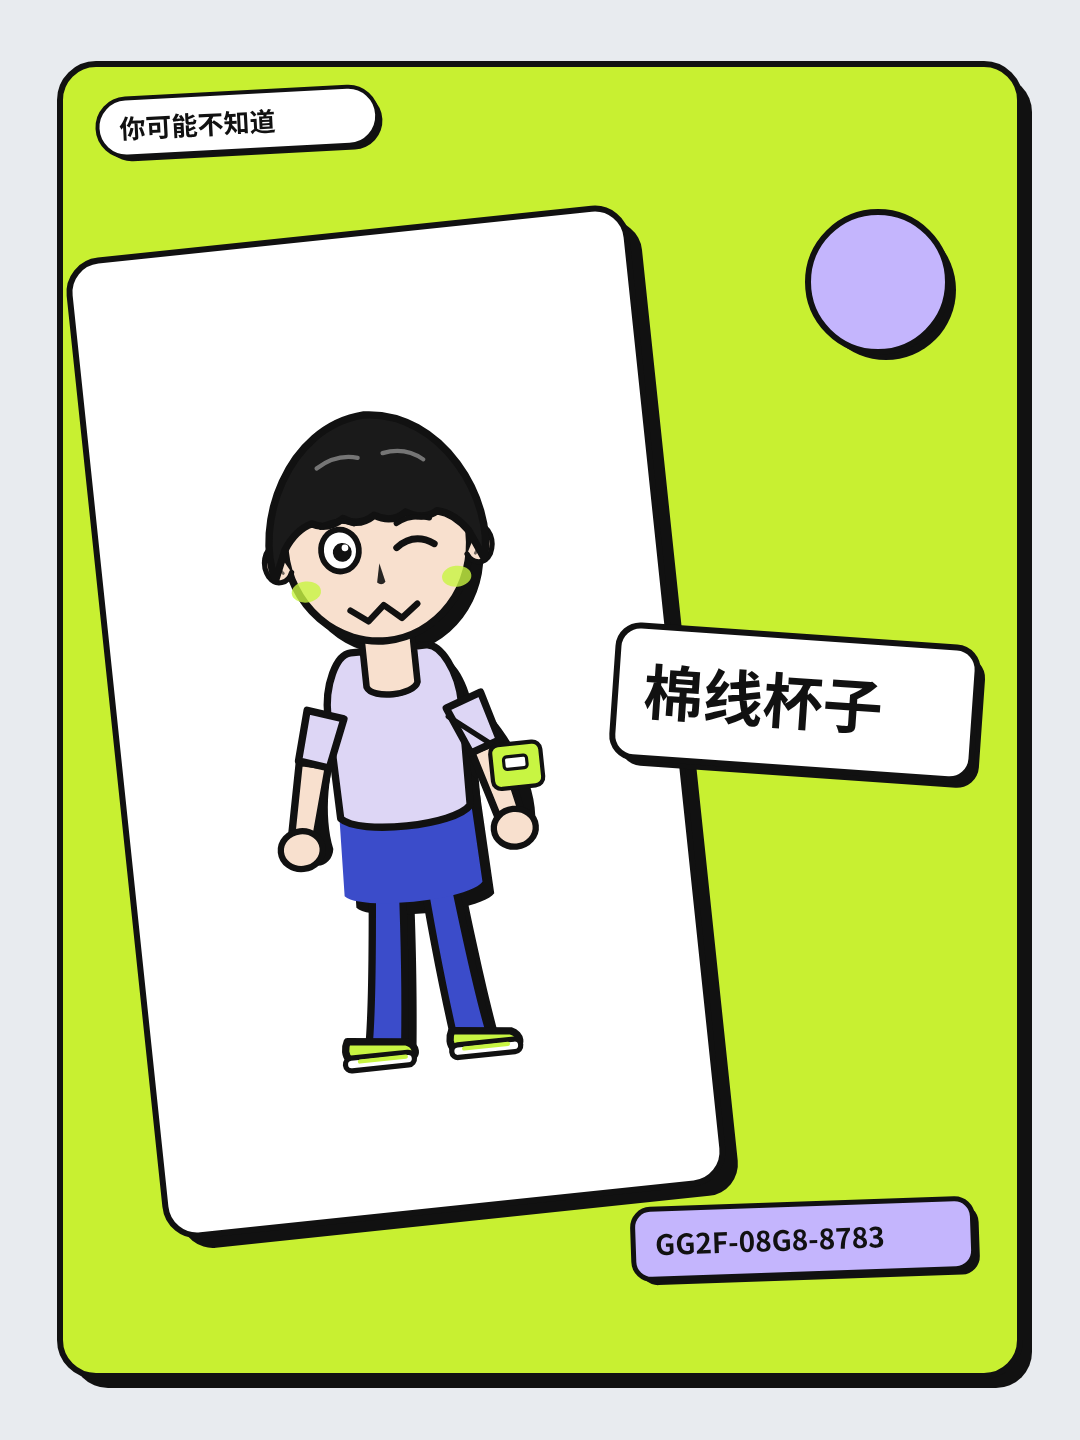
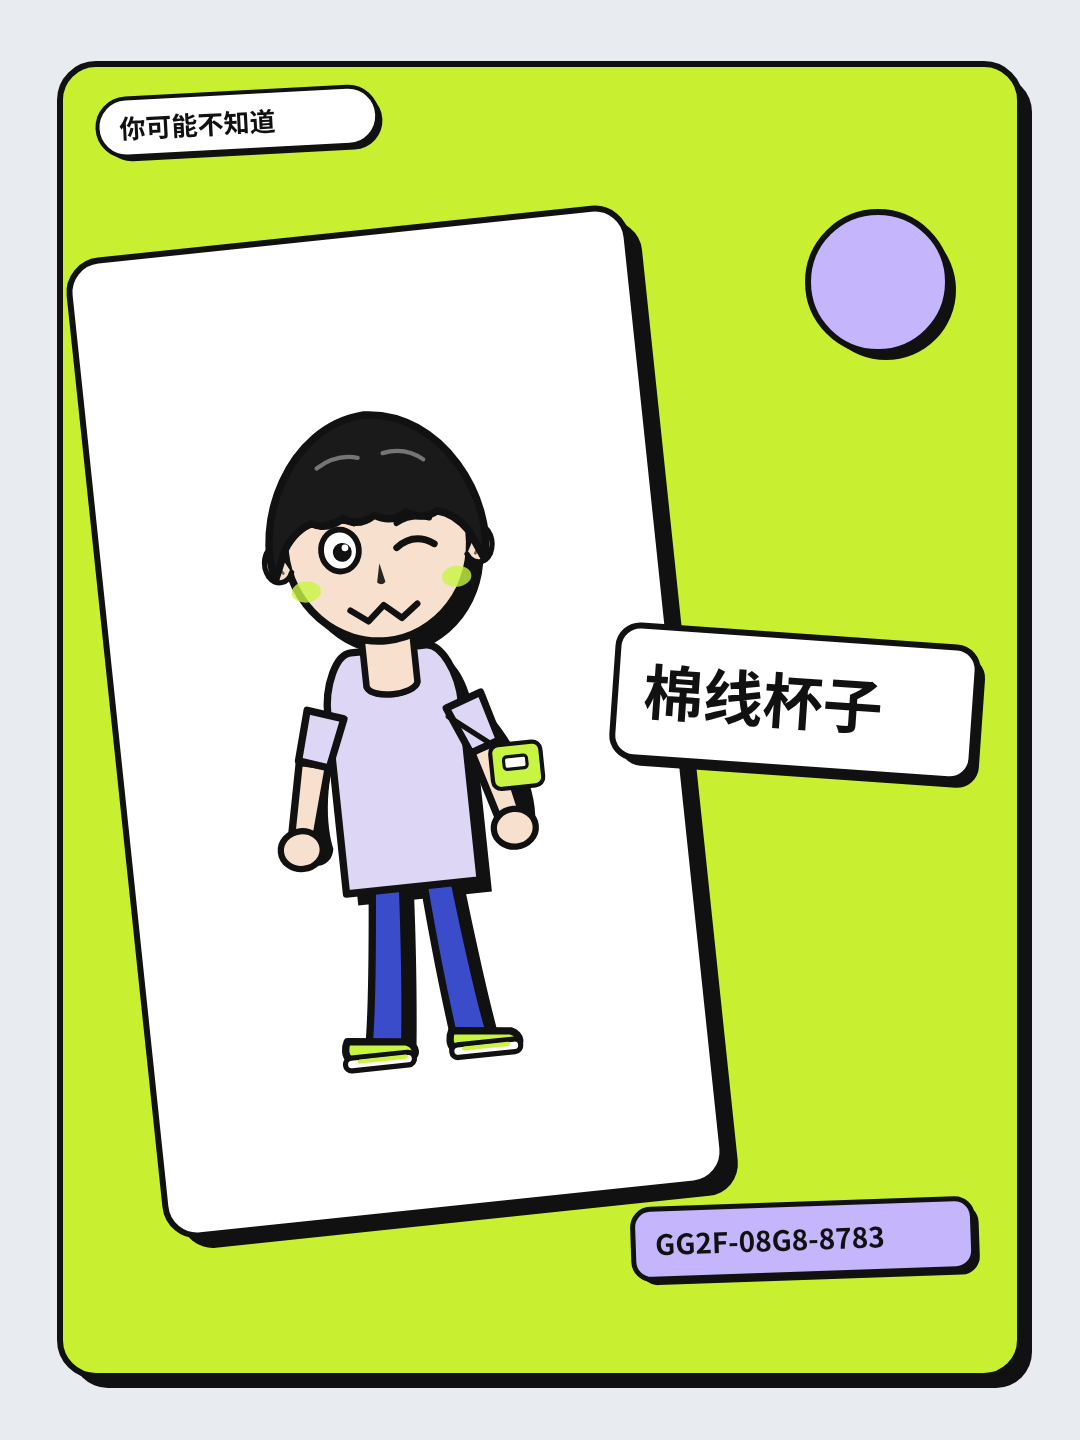
v1.7：下摆锁在同一高度，去掉裤腰色块
非连衣裙的衣身下摆都落在 HEM_Y，压过三种腿根。短的加长，过长的收到这条线。连衣裙仍是裙子。

Changed region(s): [[0.3056, 0.5312, 0.4583, 0.6562]]

diff --git a/js/figure-avatar.js b/js/figure-avatar.js
@@ -322,15 +322,20 @@
     long: 'swept', pony: 'fringe', afro: 'curly', shoulder: 'swept', spiky: 'spiky',
     buzz: 'buzz', swoop: 'swoop'
   };
-  /* 领口开口各款共用，衣身下摆和肩宽按款式分开。 */
+  /* 非连衣裙共用一条下摆。必须压过三种腿根（最低约 y514）至少 2px。 */
+  var HEM_Y = 518;
+  function hemLine(x0, x1) {
+    return ' L' + x1 + ' ' + HEM_Y + ' L' + x0 + ' ' + HEM_Y + ' Z';
+  }
+  /* 领口开口各款共用，肩宽仍按款式分开，下摆锁在 HEM_Y。 */
   var TORSO = {
-    tee: 'M136 348 C136 318 150 290 164 290 ' + 'L176 290 L176 324 C180 336 220 336 224 324 L224 290 L236 290' + ' C250 290 264 318 264 348 L262 446 C246 464 154 464 138 446 Z',
-    sweater: 'M108 334 C108 308 138 290 164 290 ' + 'L176 290 L176 324 C180 336 220 336 224 324 L224 290 L236 290' + ' C262 290 292 308 292 334 L296 512 C284 556 116 556 104 512 Z',
-    shirt: 'M124 348 C124 316 146 290 164 290 ' + 'L176 290 L176 324 C180 336 220 336 224 324 L224 290 L236 290' + ' C254 290 276 316 276 348 L270 468 C286 524 236 498 200 490 C164 498 114 524 130 468 Z',
-    hoodie: 'M102 352 C102 318 140 290 164 290 ' + 'L176 290 L176 324 C180 336 220 336 224 324 L224 290 L236 290' + ' C260 290 298 318 298 352 L304 548 L96 548 Z',
-    stripes: 'M98 362 C116 332 146 304 164 290 ' + 'L176 290 L176 324 C180 336 220 336 224 324 L224 290 L236 290' + ' C254 304 284 332 302 362 L296 508 C272 528 128 528 104 508 Z',
-    vest: 'M118 344 C118 314 144 290 164 290 ' + 'L176 290 L176 324 C180 336 220 336 224 324 L224 290 L236 290' + ' C256 290 282 314 282 344 L276 524 C258 542 142 542 124 524 Z',
-    overalls: 'M132 346 C132 316 148 290 164 290 ' + 'L176 290 L176 324 C180 336 220 336 224 324 L224 290 L236 290' + ' C252 290 268 316 268 346 L264 430 C248 446 152 446 136 430 Z',
+    tee: 'M136 348 C136 318 150 290 164 290 ' + 'L176 290 L176 324 C180 336 220 336 224 324 L224 290 L236 290' + ' C250 290 264 318 264 348' + hemLine(136, 264),
+    sweater: 'M108 334 C108 308 138 290 164 290 ' + 'L176 290 L176 324 C180 336 220 336 224 324 L224 290 L236 290' + ' C262 290 292 308 292 334' + hemLine(104, 296),
+    shirt: 'M124 348 C124 316 146 290 164 290 ' + 'L176 290 L176 324 C180 336 220 336 224 324 L224 290 L236 290' + ' C254 290 276 316 276 348' + hemLine(124, 276),
+    hoodie: 'M102 352 C102 318 140 290 164 290 ' + 'L176 290 L176 324 C180 336 220 336 224 324 L224 290 L236 290' + ' C260 290 298 318 298 352' + hemLine(96, 304),
+    stripes: 'M98 362 C116 332 146 304 164 290 ' + 'L176 290 L176 324 C180 336 220 336 224 324 L224 290 L236 290' + ' C254 304 284 332 302 362' + hemLine(104, 296),
+    vest: 'M118 344 C118 314 144 290 164 290 ' + 'L176 290 L176 324 C180 336 220 336 224 324 L224 290 L236 290' + ' C256 290 282 314 282 344' + hemLine(124, 276),
+    overalls: 'M132 346 C132 316 148 290 164 290 ' + 'L176 290 L176 324 C180 336 220 336 224 324 L224 290 L236 290' + ' C252 290 268 316 268 346' + hemLine(132, 268),
     dress: 'M134 346 C134 316 150 290 164 290 ' + 'L176 290 L176 324 C180 336 220 336 224 324 L224 290 L236 290' + ' C250 290 266 316 266 346 L262 432 C246 450 154 450 138 432 Z'
   };
   var SKIRT = 'M150 428 C108 468 64 548 58 602 C130 624 270 624 342 602 C336 548 292 468 250 428 C220 448 180 448 150 428 Z';
@@ -340,8 +345,6 @@
   var LEG_R_OUT = 'M238 498 C246 555 255 618 270 664 L226 670 C220 618 214 555 204 508 Z';
   var LEG_L_WALK = 'M150 508 C128 570 108 635 98 668 L146 672 C158 632 164 575 176 514 Z';
   var LEG_R_WALK = 'M248 500 C272 555 302 625 318 658 L274 666 C262 625 246 560 226 508 Z';
-  /* 裤腰：最短下摆（约 y430）之上接到腿根（约 y515）之下。非连衣裙才画，颜色用裤子色。 */
-  var HIP = 'M138 416 C138 402 164 394 200 394 C236 394 262 402 262 416 L266 520 C252 536 148 536 134 520 Z';
   var SHOE_L = 'M122 658 C122 658 112 676 132 680 L178 680 C188 680 188 668 178 664 Z';
   var SHOE_R = 'M222 658 C222 658 212 676 232 680 L278 680 C288 680 288 668 278 664 Z';
   var SHOE_L_OUT = 'M116 660 C116 660 106 678 128 682 L182 682 C192 682 194 670 184 666 Z';
@@ -565,7 +568,6 @@
     } else {
       add('shadow', P(legL, '#111', 'none', 0, 10, 12));
       add('shadow', P(legR, '#111', 'none', 0, 10, 12));
-      add('shadow', P(HIP, '#111', 'none', 0, 10, 12));
     }
 
     if (hairId === 'long' || hairId === 'shoulder') {
@@ -595,8 +597,6 @@
     } else {
       add('leg', P(legL, C.pants, INK, SW));
       add('leg', P(legR, C.pants, INK, SW));
-      /* 腿层、躯干之下：盖住腿根描边，衬衫下摆再压住裤腰上沿。 */
-      add('hip', P(HIP, C.pants, 'none', 0));
     }
     add('shoeUpper', P(shoeL, C.shoe, INK, SW));
     add('shoeUpper', P(shoeR, C.shoe, INK, SW));
@@ -626,25 +626,25 @@
       add('hood', P('M186 348 L176 418 M214 348 L224 418', 'none', INK, 4));
       add('hood', Ci(176, 422, 7, C.accent, INK, 3));
       add('hood', Ci(224, 422, 7, C.accent, INK, 3));
-      add('pocket', P('M132 468 L148 424 L252 424 L268 468 L260 530 L140 530 Z', C.deep, INK, 5));
+      add('pocket', P('M132 450 L148 408 L252 408 L268 450 L260 ' + (HEM_Y - 16) + ' L140 ' + (HEM_Y - 16) + ' Z', C.deep, INK, 5));
     } else if (body === 'overalls') {
       add('body', P('M146 330 L158 392 M254 330 L242 392', 'none', C.main, 12));
       add('body', P('M146 330 L158 392 M254 330 L242 392', 'none', INK, 3));
-      add('body', P('M148 378 L252 378 L270 530 C236 552 164 552 130 530 Z', C.main, INK, 5));
+      add('body', P('M148 378 L252 378 L278 ' + HEM_Y + ' L122 ' + HEM_Y + ' Z', C.main, INK, 5));
       add('button', Ci(162, 396, 6, INK, 'none', 0));
       add('button', Ci(238, 396, 6, INK, 'none', 0));
       add('pocket', P('M176 412 L224 412 L224 448 L176 448 Z', 'none', INK, 4));
     } else if (body === 'shirt') {
       add('collar', P('M164 292 L148 348 L188 338 Z', shirt, INK, 4.5));
       add('collar', P('M236 292 L252 348 L212 338 Z', shirt, INK, 4.5));
-      add('body', P('M200 336 L200 478', 'none', INK, 4));
+      add('body', P('M200 336 L200 ' + (HEM_Y - 22), 'none', INK, 4));
       add('button', Ci(200, 360, 5, C.accent, INK, 2));
       add('button', Ci(200, 396, 5, C.accent, INK, 2));
       add('button', Ci(200, 432, 5, C.accent, INK, 2));
       add('pocket', P('M214 390 L248 390 L248 422 L214 422 Z', 'none', INK, 4));
     } else if (body === 'sweater') {
       add('collar', P('M150 306 Q200 336 250 306', 'none', C.deep, 12));
-      add('body', P('M112 492 L288 492 L278 548 C236 564 164 564 122 548 Z', C.deep, INK, 5));
+      add('body', P('M112 ' + (HEM_Y - 28) + ' L288 ' + (HEM_Y - 28) + ' L296 ' + HEM_Y + ' L104 ' + HEM_Y + ' Z', C.deep, INK, 5));
     } else if (body === 'dress') {
       add('body', P(SKIRT, shirt, INK, SW));
       add('body', P('M154 440 L246 440', 'none', INK, 5));
@@ -1272,10 +1272,10 @@
       var sh = shapes[s];
       if (!sh || sh.op !== 'path' || !sh.d || sh.fill === 'none' || !sh.fill) continue;
       var bit = 0;
-      if (sh.part === 'body' || sh.part === 'hip') bit = UPPER;
+      if (sh.part === 'body') bit = UPPER;
       else if (sh.part === 'leg') bit = LEG;
       if (!bit) continue;
-      paintRings(mask, w, y0, y1, pathRings(sh.d), bit, sh.part === 'hip' ? 0 : Math.floor((sh.sw || 0) / 2));
+      paintRings(mask, w, y0, y1, pathRings(sh.d), bit, Math.floor((sh.sw || 0) / 2));
     }
     function pix(x, y) {
       if (x < 0 || x >= w || y < y0 || y >= y1) return 0;
@@ -1337,6 +1337,42 @@
     }
     if (!holes) return [];
     return ['waist ' + model.body.id + '/' + model.pose.id + ' holes ' + holes + ' worst ' + worst + 'px @' + worstX];
+  }
+  /* 非连衣裙的衣身下摆必须整段落在 HEM_Y，不能只靠两侧下探。 */
+  function hemIssues(model, shapes) {
+    if (model.body.id === 'dress') return [];
+    var torso = null;
+    var i;
+    for (i = 0; i < shapes.length; i++) {
+      var sh = shapes[i];
+      if (sh.part === 'body' && sh.op === 'path' && sh.fill && sh.fill !== 'none') {
+        torso = sh;
+        break;
+      }
+    }
+    if (!torso) return ['hem ' + model.body.id + ' missing'];
+    var y0 = 280;
+    var y1 = 650;
+    var w = VIEW_W;
+    var mask = new Uint8Array(w * (y1 - y0));
+    paintRings(mask, w, y0, y1, pathRings(torso.d), 1, 0);
+    var expect = HEM_Y - 1;
+    var bad = 0;
+    var sample = '';
+    var x;
+    var y;
+    for (x = 150; x <= 250; x++) {
+      var bottom = -1;
+      for (y = y1 - 1; y >= y0; y--) {
+        if (mask[(y - y0) * w + x]) { bottom = y; break; }
+      }
+      if (bottom !== expect) {
+        bad++;
+        if (!sample) sample = 'x' + x + '=' + bottom;
+      }
+    }
+    if (!bad) return [];
+    return ['hem ' + model.body.id + '/' + model.pose.id + ' ' + bad + ' ' + sample + ' want ' + expect];
   }
 
   function audit(model, shapes) {
@@ -1409,6 +1445,8 @@
     }
     var waist = waistIssues(model, shapes);
     for (i = 0; i < waist.length; i++) problems.push(waist[i]);
+    var hem = hemIssues(model, shapes);
+    for (i = 0; i < hem.length; i++) problems.push(hem[i]);
     return problems;
   }
 
@@ -1428,6 +1466,7 @@
     combo: comboCount(),
     HAIR_TYPE: HAIR_TYPE,
     hairs: HAIR,
+    HEM_Y: HEM_Y,
     anchors: {
       headCx: HEAD_CX,
       headCy: HEAD_CY,

diff --git a/README.md b/README.md
@@ -51,7 +51,7 @@ node scripts/waist_check.mjs
 
 「我的」标题旁和结算页底部有「关注作者」。只在客户端 9.51+（`buildVersion / 1000 >= 9510`）且 `followAuthor` / `getFollowStatus` 都在时出现。未关注显示按钮，已关注禁用成「已关注」，作者本人隐藏。用户关掉确认框不提示；当天次数用完提示「今天先到这儿啦」。
 
-短袖和衬衣的腰上原来会露出底。裤腰画在腿层、躯干下面，从最短下摆接到腿根，连衣裙仍只留裙子。腰缝用光栅扫，不看包围盒。
+短袖和衬衣的腰上原来会露出底。非连衣裙的下摆锁在同一条 HEM_Y，压过腿根至少 2px；连衣裙仍是裙子加大腿。腰缝按像素扫，并核对下摆高度。
 
 自检：`node scripts/share_flow.test.mjs` 和 `node scripts/waist_check.mjs`
 
